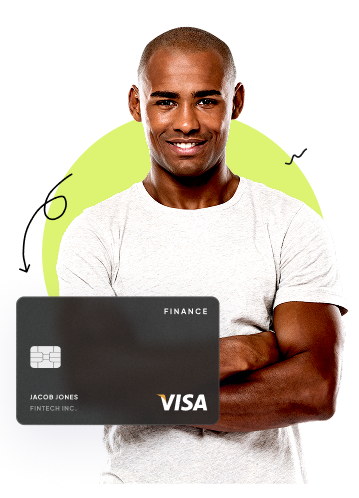
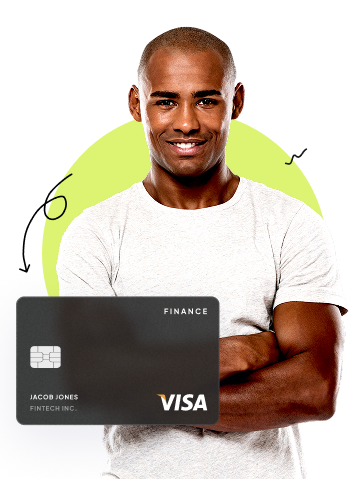
optimize images

diff --git a/src/App.css b/src/App.css
@@ -1,6 +1,6 @@
 #root {
   max-width: 1280px;
-  margin: 0 auto;
+  margin: 0 0;
   text-align: center;
 }
 
@@ -355,13 +355,14 @@ button{
 
 .technology-image-container{
   width: 58%;
-  height: 400px;
+  max-height: 400px;
 }
 
 .technology-image{
-  width: 100%;
-  height: 100%;
-  object-fit: cover;
+  display: block;
+  max-width: 100%;
+  margin: auto;
+  max-height: 400px;
 }
 
 .technology-author-info{
@@ -695,6 +696,7 @@ button{
     width: 90%;
     margin: auto;
     border-radius: 5px;
+    color: #000000;
   }
 
   .headerNavs a:hover{
@@ -890,9 +892,6 @@ button{
     margin-bottom: 0; 
   }
 
-  .technology{
-    padding-top: 0;
-  }
 
   .features img{
     width: 100%;
@@ -942,7 +941,8 @@ button{
   }
 
   .technology-image-container{
-    width: 55%;   
+    width: 55%; 
+    margin: 20px auto;
   }
 
   .statistics-title{
@@ -1121,9 +1121,7 @@ button{
     line-height: 22px;
     width: 77px;
   }
-  .technology-image-container{
-    border:1px solid red;
-  }
+  
   .hero-background-image{
     display: none;
   }
@@ -1139,8 +1137,7 @@ button{
     display: block;
     height:100% ;
     width: 100%;
-    object-fit: cover;
-    object-position: top;
+   
   }
 
   .services-container .content,
@@ -1167,7 +1164,7 @@ button{
   }
 
   .technology-image-container{
-    width: 100%;
+    width: 75%;
   }
 
   .technology .content-title{

diff --git a/src/components/main/Main.jsx b/src/components/main/Main.jsx
@@ -56,7 +56,7 @@ export const Main = () => {
                         </div>
                     </div>
                     <div className='technology-image-container'>
-                      <img className="technology-image" src="/resources/cards.svg" alt="Technology Illustration"/>
+                      <img className="technology-image" src="/resources/cards.png" alt="Technology Illustration"/>
                     </div>
                 </div>
             </section>

diff --git a/src/components/hero/container/HeroContainer.jsx b/src/components/hero/container/HeroContainer.jsx
@@ -8,7 +8,7 @@ export const HeroContainer = () => {
             <Header />
             <HeroContent />
             <div className="hero-image-container">
-            <img className="hero-image" src="/resources/hero-image.svg" alt="Model and card image"/>
+            <img className="hero-image" src="/resources/hero-image.png" alt="Model and card image"/>
             </div>
         </section>
     );

diff --git a/src/index.css b/src/index.css
@@ -2,10 +2,16 @@
   margin: 0;
   padding: 0;
   box-sizing: border-box;
+ 
+}
+
+html{
+  overflow-x: hidden;
 }
 
 body {
   font-family: system-ui, -apple-system, BlinkMacSystemFont, sans-serif;
   background-color: #fff;
   color: #111;
+  overflow-x: hidden;
 }
